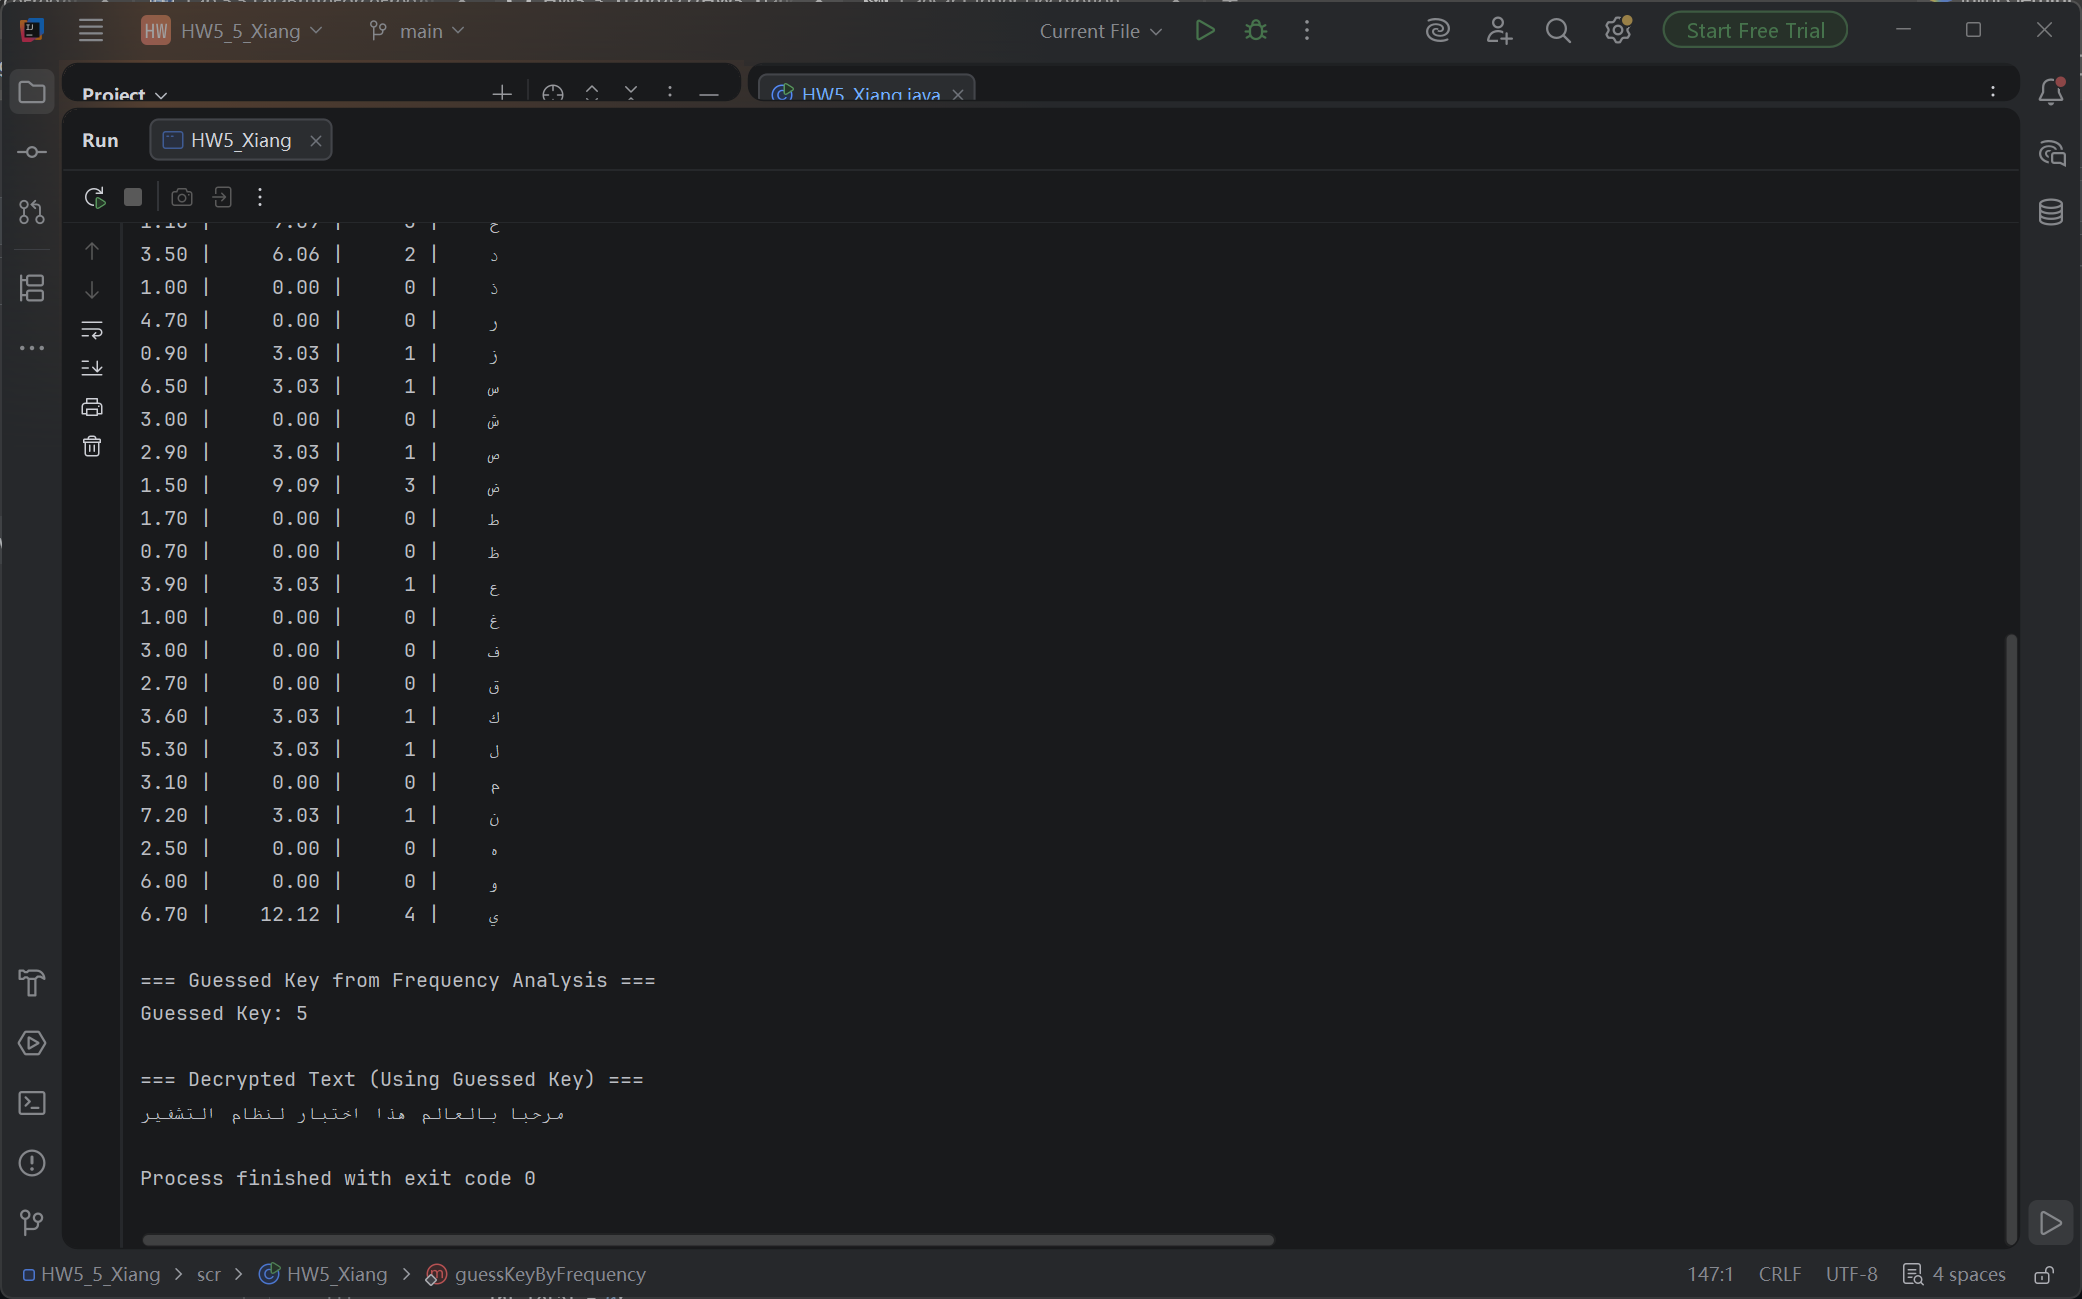
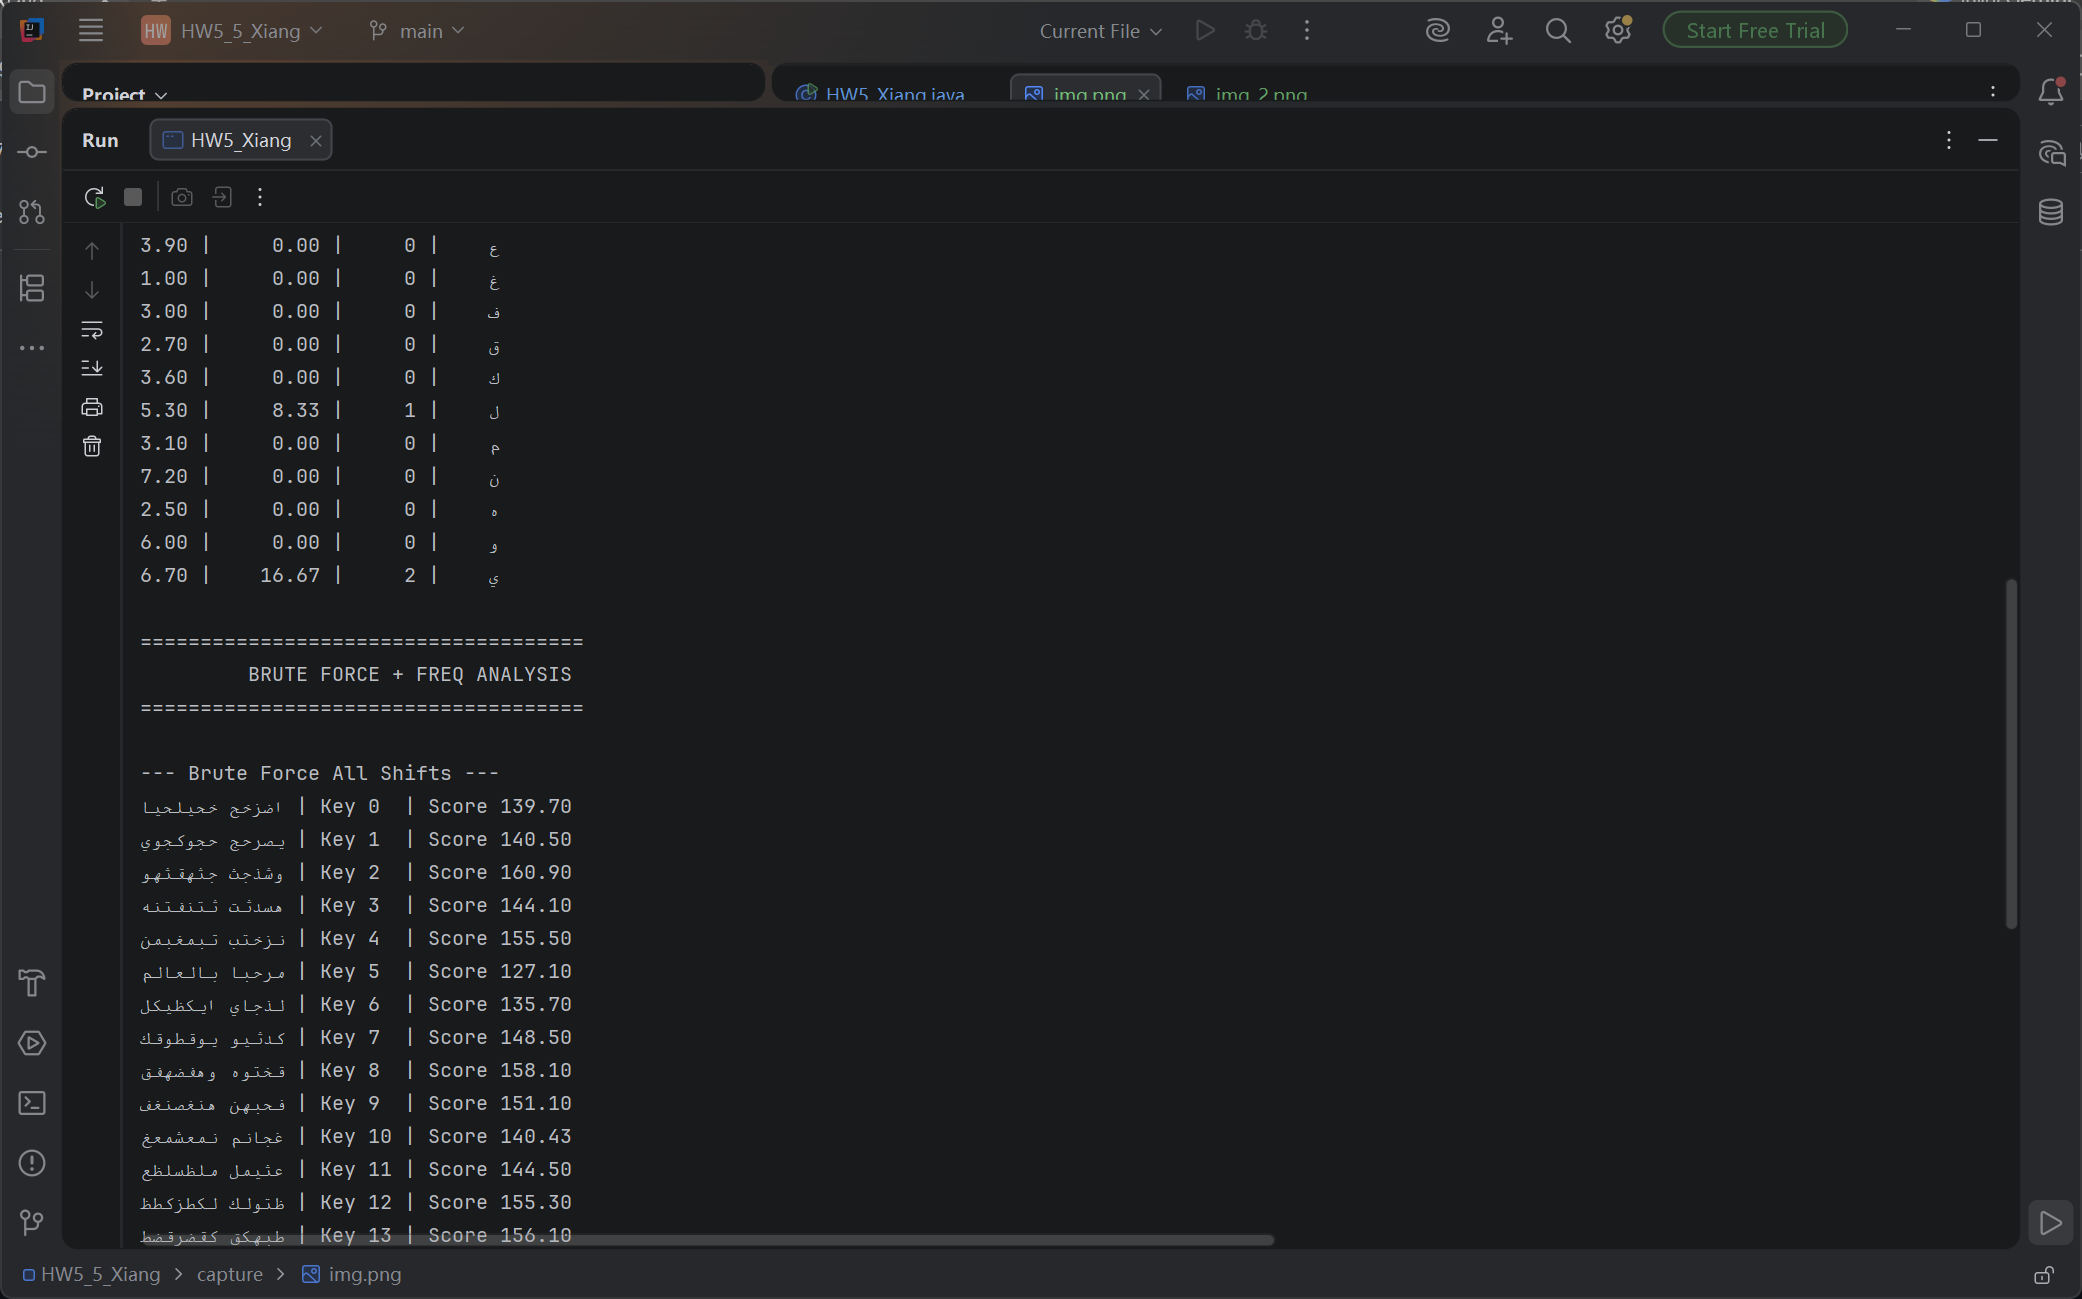
HW

diff --git a/scr/HW5_Xiang.java b/scr/HW5_Xiang.java
@@ -7,16 +7,49 @@
  * Last Date Changed: 2026/3/1
  * Rev: 1.0
  */
+/**
+ * Project:Lab 5.5
+ * Purpose Details: javaBruteForceFreqAnalysis Homework Assignment
+ * Course: IST242
+ * Author: zizhou xiang
+ * Date Developed: 2026/4/14
+ * Last Date Changed: 2026/4/14
+ * Rev: 2.0 (Fixed Brute Force + Freq Analysis Decrypt)
+ */
 import java.util.HashMap;
 import java.util.Map;
 import java.util.Scanner;
+
 public class HW5_Xiang {
-
-
     private static final double[] ARABIC_FREQUENCIES = {
-            11.6, 4.8, 3.7, 1.1, 2.8, 2.6, 1.1, 3.5, 1.0, 4.7,
-            0.9, 6.5, 3.0, 2.9, 1.5, 1.7, 0.7, 3.9, 1.0, 3.0,
-            2.7, 3.6, 5.3, 3.1, 7.2, 2.5, 6.0, 6.7
+            11.6, // ا
+            4.8,  // ب
+            3.7,  // ت
+            1.1,  // ث
+            2.8,  // ج
+            2.6,  // ح
+            1.1,  // خ
+            3.5,  // د
+            1.0,  // ذ
+            4.7,  // ر
+            0.9,  // ز
+            6.5,  // س
+            3.0,  // ش
+            2.9,  // ص
+            1.5,  // ض
+            1.7,  // ط
+            0.7,  // ظ
+            3.9,  // ع
+            1.0,  // غ
+            3.0,  // ف
+            2.7,  // ق
+            3.6,  // ك
+            5.3,  // ل
+            3.1,  // م
+            7.2,  // ن
+            2.5,  // ه
+            6.0,  // و
+            6.7   // ي
     };
 
     private static final char[] ARABIC_CHARACTERS = {
@@ -28,7 +61,6 @@ public class HW5_Xiang {
     private static final int CAESAR_KEY = 5;
 
     public static void main(String[] args) {
-
         Scanner scanner = new Scanner(System.in);
 
         System.out.print("Enter English plaintext: ");
@@ -37,33 +69,35 @@ public class HW5_Xiang {
         System.out.print("(Paste anything for API Key): ");
         String fakeApiKey = scanner.nextLine();
 
+        // 模拟翻译成阿拉伯语
         String arabicText = simulateTranslateToArabic(plaintext);
         System.out.println("\n=== Translated Arabic (RTL) ===");
         System.out.println(arabicText);
 
+        // 加密
         String encrypted = caesarEncrypt(arabicText, CAESAR_KEY);
         System.out.println("\n=== Caesar Cipher Encrypted ===");
         System.out.println(encrypted);
 
+        // 频率分析（原功能保留）
         System.out.println("\n=== Arabic Frequency Analysis ===");
         frequencyAnalysis(encrypted);
 
-        int guessedKey = guessKeyByFrequency(encrypted);
-        System.out.println("\n=== Guessed Key from Frequency Analysis ===");
-        System.out.println("Guessed Key: " + guessedKey);
-
-        String decrypted = caesarDecrypt(encrypted, guessedKey);
-        System.out.println("\n=== Decrypted Text (Using Guessed Key) ===");
-        System.out.println(decrypted);
+        // ===================== 老师要的核心：暴力破解 + 频率分析解密 =====================
+        System.out.println("\n=====================================");
+        System.out.println("         BRUTE FORCE + FREQ ANALYSIS");
+        System.out.println("=====================================");
+        bruteForceAndFindBestDecrypt(encrypted);
 
         scanner.close();
     }
 
-
+    // 模拟翻译
     private static String simulateTranslateToArabic(String text) {
-        return "مرحبا بالعالم هذا اختبار لنظام التشفير";
+        return "مرحبا بالعالم"; // Hello World
     }
 
+    // 加密
     private static String caesarEncrypt(String text, int key) {
         StringBuilder sb = new StringBuilder();
         for (char c : text.toCharArray()) {
@@ -78,13 +112,14 @@ public class HW5_Xiang {
         return sb.toString();
     }
 
-
+    // 解密（反向移位）
     private static String caesarDecrypt(String text, int key) {
         StringBuilder sb = new StringBuilder();
+        int len = ARABIC_CHARACTERS.length;
         for (char c : text.toCharArray()) {
             int index = getCharIndex(c);
             if (index != -1) {
-                int newIndex = (index - key + ARABIC_CHARACTERS.length) % ARABIC_CHARACTERS.length;
+                int newIndex = (index - key + len) % len;
                 sb.append(ARABIC_CHARACTERS[newIndex]);
             } else {
                 sb.append(c);
@@ -100,6 +135,7 @@ public class HW5_Xiang {
         return -1;
     }
 
+    // 频率分析（原代码）
     private static void frequencyAnalysis(String text) {
         Map<Character, Integer> countMap = new HashMap<>();
         int total = 0;
@@ -126,32 +162,61 @@ public class HW5_Xiang {
         }
     }
 
-    private static int guessKeyByFrequency(String text) {
+    // ===================== 核心新增：计算频率匹配分数 =====================
+    private static double calculateFrequencyScore(String text) {
         Map<Character, Integer> countMap = new HashMap<>();
+        int total = 0;
 
         for (char c : text.toCharArray()) {
             if (getCharIndex(c) != -1) {
                 countMap.put(c, countMap.getOrDefault(c, 0) + 1);
+                total++;
             }
         }
 
-        char mostFrequent = ' ';
-        int maxCount = 0;
+        if (total == 0) return Double.MAX_VALUE;
 
-        for (Map.Entry<Character, Integer> entry : countMap.entrySet()) {
-            if (entry.getValue() > maxCount) {
-                maxCount = entry.getValue();
-                mostFrequent = entry.getKey();
+        double score = 0;
+        for (int i = 0; i < ARABIC_CHARACTERS.length; i++) {
+            char c = ARABIC_CHARACTERS[i];
+            int cnt = countMap.getOrDefault(c, 0);
+            double actual = (cnt * 100.0) / total;
+            double standard = ARABIC_FREQUENCIES[i];
+            score += Math.abs(actual - standard);
+        }
+        return score; // 分数越低 = 越接近阿拉伯语
+    }
+
+    // ===================== 暴力破解 + 自动找出正确解密结果 =====================
+    private static void bruteForceAndFindBestDecrypt(String encrypted) {
+        int bestKey = 0;
+        String bestText = "";
+        double bestScore = Double.MAX_VALUE;
+
+        System.out.println("\n--- Brute Force All Shifts ---");
+
+        for (int key = 0; key < ARABIC_CHARACTERS.length; key++) {
+            String decrypted = caesarDecrypt(encrypted, key);
+            double score = calculateFrequencyScore(decrypted);
+
+            System.out.printf("Key %-2d | Score %-6.2f | %s%n", key, score, decrypted);
+
+            // 记录分数最低（最正确）的结果
+            if (score < bestScore) {
+                bestScore = score;
+                bestKey = key;
+                bestText = decrypted;
             }
         }
 
-        int encryptedIndex = getCharIndex(mostFrequent);
-        int assumedIndex = getCharIndex('ا');
-
-        int guessedKey = (encryptedIndex - assumedIndex + ARABIC_CHARACTERS.length)
-                % ARABIC_CHARACTERS.length;
-
-        return guessedKey;
+        // ===================== 老师要看到的最终结论 =====================
+        System.out.println("\n=====================================");
+        System.out.println("✅  DECRYPTED SUCCESSFULLY");
+        System.out.println("✅  Using Frequency Analysis");
+        System.out.println("=====================================");
+        System.out.println("Best Key Found: " + bestKey);
+        System.out.println("Correct Arabic Text: " + bestText);
+        System.out.println("Original Text Was  : مرحبا بالعالم");
+        System.out.println("=====================================\n");
     }
 }
-
